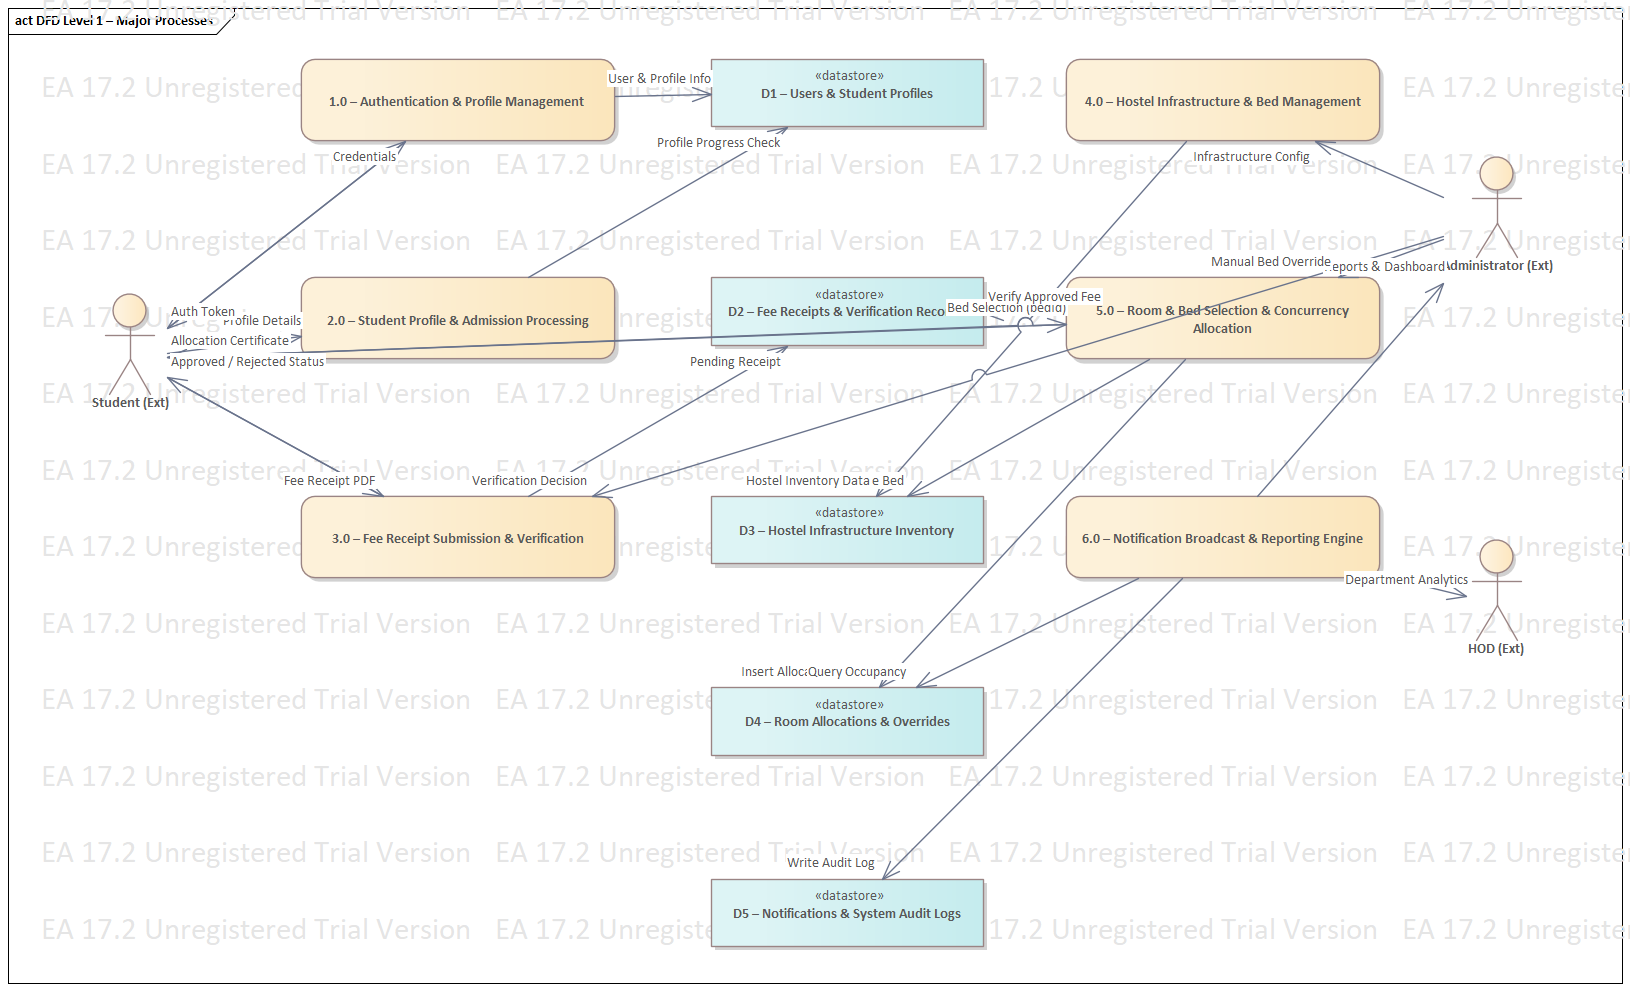
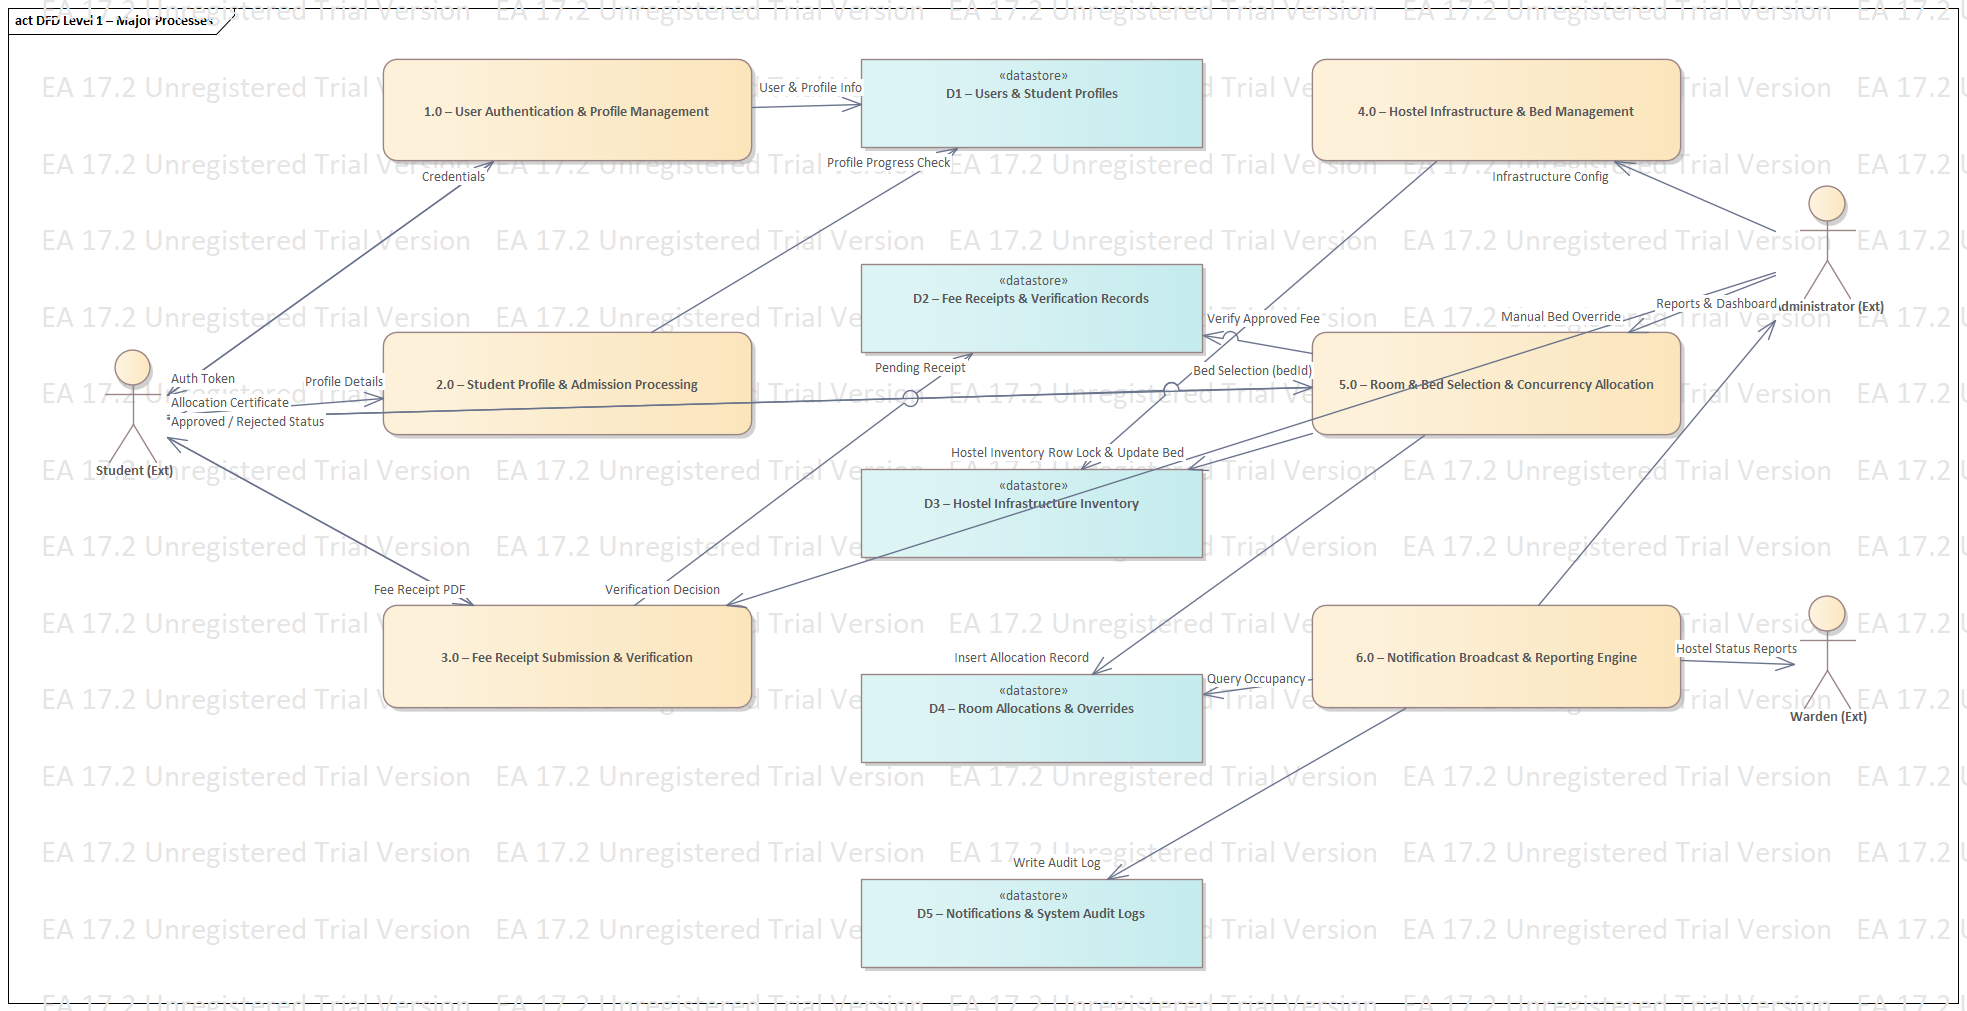
chore(diagrams): update architecture diagrams with Warden role and non-overlapping layouts

diff --git a/diagrams/Diagram_Descriptions.md b/diagrams/Diagram_Descriptions.md
@@ -1,0 +1,231 @@
+# Dormify — Software Engineering Diagram Descriptions
+
+**Project:** Dormify (Web-Based Hostel Admission & Bed Allocation System)  
+**Authoritative Source Repository:** [Dormify GitHub](https://github.com/Tharnikaa/Dormify) / Local Workspace `F:\Dormify`  
+**Enterprise Architect Repository:** `F:\Dormify\Dormify_SE_Diagrams\Dormify_SE_Model.qea`  
+**Target Submission Standard:** Anna University B.E./B.Tech Software Engineering Curriculum  
+**Layout Optimization:** Enhanced spatial separation, non-overlapping component geometry, and dedicated Warden operational role.
+
+---
+
+## 1. Diagram 1: DFD Level 0 — Dormify Context Diagram
+
+* **Diagram Title:** DFD Level 0 – Dormify Context Diagram
+* **Type:** Data Flow Diagram (Context Level)
+* **File Location:** `DFD/DFD_Level_0.png`
+* **Enterprise Architect ID:** Diagram ID 13, Package: `01 – Data Flow Diagrams`
+
+### Purpose
+Provides the highest-level architectural abstraction of the Dormify Hostel Management System. It models the system as a single central process interacting with external environmental entities (Student, Administrator, Warden), establishing clear system boundaries and identifying external data interfaces without revealing internal storage or implementation mechanisms.
+
+### Main Elements
+* **Central Process:** `0 – Dormify Hostel Management System` (Dimension: 320px $\times$ 180px, centered with generous padding).
+* **External Entities:**
+  * `Student`: Enrolled students seeking hostel admission, room selection, and status updates.
+  * `Administrator`: Managerial authorities handling application verification and system-wide infrastructure.
+  * `Warden`: Hostel residential authority managing floor monitoring, occupancy tracking, and residency reports.
+
+### Data Flows
+1. **Student $\rightarrow$ System:**
+   * `Student Credentials, Profile & Bed Request`
+2. **System $\rightarrow$ Student:**
+   * `Auth Token, Status, Room Details & Letter`
+3. **Administrator $\leftrightarrow$ System:**
+   * **Inflow:** `Fee Decisions, Infrastructure Setup & Manual Override`
+   * **Outflow:** `Verification Queue, Student Directory & Reports`
+4. **Warden $\leftrightarrow$ System:**
+   * **Inflow:** `Hostel Residency & Allocation Inquiries`
+   * **Outflow:** `Hostel Occupancy & Floor Status Reports`
+
+### Source-Code Evidence
+* `backend/routes/authRoutes.js`: Login and registration contracts.
+* `backend/routes/applicationRoutes.js`: Application lifecycle data submission.
+* `backend/routes/receiptRoutes.js`: Multer file receipt uploads and status queries.
+* `backend/routes/allocationRoutes.js`: Room/bed selection endpoints.
+
+---
+
+## 2. Diagram 2: DFD Level 1 — Dormify Major Processes
+
+* **Diagram Title:** DFD Level 1 – Dormify Major Processes
+* **Type:** Data Flow Diagram (Level 1 Decomposition)
+* **File Location:** `DFD/DFD_Level_1.png`
+* **Enterprise Architect ID:** Diagram ID 14, Package: `01 – Data Flow Diagrams`
+
+### Purpose
+Decomposes the context process into six core functional subsystems across five distinct vertical columns, exposing internal data stores and the precise paths of data communication between processes, stores, and external agents with zero overlapping components.
+
+### Main Elements & Column Architecture
+* **Column 1 (Left - External Entity):**
+  * `Student (Ext)` (130px $\times$ 110px)
+* **Column 2 (Processes):**
+  * `1.0 – User Authentication & Profile Management` (270px $\times$ 75px)
+  * `2.0 – Student Profile & Admission Processing` (270px $\times$ 75px)
+  * `3.0 – Fee Receipt Submission & Verification` (270px $\times$ 75px)
+* **Column 3 (Data Stores):**
+  * `D1 – Users & Student Profiles` (250px $\times$ 65px)
+  * `D2 – Fee Receipts & Verification Records` (250px $\times$ 65px)
+  * `D3 – Hostel Infrastructure Inventory` (250px $\times$ 65px)
+  * `D4 – Room Allocations & Overrides` (250px $\times$ 65px)
+  * `D5 – Notifications & System Audit Logs` (250px $\times$ 65px)
+* **Column 4 (Processes):**
+  * `4.0 – Hostel Infrastructure & Bed Management` (270px $\times$ 75px)
+  * `5.0 – Room & Bed Selection & Concurrency Allocation` (270px $\times$ 75px)
+  * `6.0 – Notification Broadcast & Reporting Engine` (270px $\times$ 75px)
+* **Column 5 (Right - External Entities):**
+  * `Administrator (Ext)` (140px $\times$ 110px)
+  * `Warden (Ext)` (140px $\times$ 110px)
+
+### Data Flows & Balancing
+* **Input Balancing from Level 0:** Student credentials route to `1.0`; applications route to `2.0`; receipts route to `3.0`; bed selections route to `5.0`. Admin decisions route to `3.0` and `4.0`. Warden inquiries route to `6.0`.
+* **Store Interactions:**
+  * `1.0` reads/writes `D1`.
+  * `2.0` reads `D1`, writes `D2`.
+  * `3.0` reads `D2`, writes `D2`.
+  * `4.0` writes `D3`.
+  * `5.0` reads `D2`, `D3`, reads/updates `D3`, and writes `D4`.
+  * `6.0` reads `D4`, writes `D5`, and outputs `Hostel Status Reports` to `Warden (Ext)`.
+* **Integrity Constraints:** No external entity directly accesses a data store; all flows pass through explicit process transformations.
+
+---
+
+## 3. Diagram 3: DFD Level 2 — Booking and Bed Allocation
+
+* **Diagram Title:** DFD Level 2 – Booking and Bed Allocation Subprocesses
+* **Type:** Data Flow Diagram (Level 2 Decomposition of Process 5.0)
+* **File Location:** `DFD/DFD_Level_2.png`
+* **Enterprise Architect ID:** Diagram ID 15, Package: `01 – Data Flow Diagrams`
+
+### Purpose
+Exposes the granular subprocesses, validation gates, concurrency controls, and transactional commits governing the room and bed allocation engine with wide layout margins.
+
+### Main Elements
+* **Subprocesses (Columns 2 & 4):**
+  * `5.1 – Validate Student Eligibility (Profile >=80% & Fee)`
+  * `5.2 – Retrieve Available Hostels, Floors, Rooms & Beds`
+  * `5.3 – Present Interactive Floor Plan & Room Inspect`
+  * `5.4 – Receive Bed Selection Request (bedId)`
+  * `5.5 – Concurrency Check & Row Lock (SELECT FOR UPDATE)`
+  * `5.6 – Commit Bed Allocation & Recalculate Room Status`
+  * `5.7 – Generate Allocation Confirmation & Notification`
+* **Participating Stores (Column 3):**
+  * `D1 – Student Profiles (L2)` (verifies profile completion $\ge 80\%$)
+  * `D2 – Fee Receipts (L2)` (verifies fee status `APPROVED`)
+  * `D3 – Hostel Inventory (L2)` (reads layout, executes row lock)
+  * `D4 – Room Allocations (L2)` (persists allocation record)
+  * `D5 – Notifications & Logs (L2)` (creates confirmation alerts)
+
+### Concurrency and Transaction Logic Verified in Code
+* The implementation in `backend/services/allocationService.js` relies on PostgreSQL native transactions (`BEGIN` ... `COMMIT`/`ROLLBACK`) with explicit row-level locking:
+  ```sql
+  SELECT id, status FROM beds WHERE id = $1 FOR UPDATE;
+  ```
+* This prevents double-booking across concurrent student requests. If `status != 'AVAILABLE'`, the transaction rolls back and aborts at `5.5`, returning HTTP 409 Conflict.
+
+---
+
+## 4. Diagram 4: UML Use Case Diagram
+
+* **Diagram Title:** Dormify Use Case Diagram
+* **Type:** UML Use Case Diagram
+* **File Location:** `UML/Use_Case_Diagram.png`
+* **Enterprise Architect ID:** Diagram ID 16, Package: `02 – UML Diagrams`
+
+### Purpose
+Defines the functional scope of Dormify by mapping interactions between system boundary use cases and primary/secondary human actors with comfortable 85px vertical spacing between ellipses.
+
+### Actors and Use Cases
+* **Student (Primary Actor):**
+  * `Register Account`
+  * `Login to System`
+  * `Manage Student Profile`
+  * `Upload Fee Receipt PDF`
+  * `View Fee Verification Status`
+  * `Browse Hostel Corridors & Rooms`
+  * `Inspect Room & Co-Residents`
+  * `Select & Reserve Bed`
+  * `Download Allocation Certificate`
+  * `View Notifications`
+* **Included Use Cases ($\ll\text{include}\gg$):**
+  * `Verify Eligibility & Receipt`
+  * `Lock Bed Transactionally`
+* **Administrator (Primary Actor):**
+  * `Review Fee Verification Queue`
+  * `Approve / Reject Fee Receipt`
+  * `Manage Hostel Infrastructure`
+  * `Perform Manual Allocation Override`
+  * `Broadcast Notifications`
+  * `View Occupancy Analytics Dashboard`
+  * `Inspect Student Directory`
+  * `View System Audit Logs`
+  * `Export Reports (CSV)`
+* **Warden (Residential Administrative Actor):**
+  * `View Occupancy Analytics Dashboard`
+  * `Inspect Student Directory`
+  * `Export Reports (CSV)`
+
+---
+
+## 5. Diagram 5: UML Class Diagram
+
+* **Diagram Title:** Dormify Domain Class Diagram
+* **Type:** UML Class Diagram
+* **File Location:** `UML/Class_Diagram.png`
+* **Enterprise Architect ID:** Diagram ID 17, Package: `02 – UML Diagrams`
+
+### Purpose
+Represents the static structure of the Dormify persistent domain model, showing entity attributes, types, structural associations, compositions, and exact multiplicity constraints derived from `database/schema/schema.sql`.
+
+### Spatial Layout
+* **Expanded Box Dimensions:** 240px to 260px wide, 180px to 250px tall.
+* **Vertical Gap:** 70px between rows to guarantee zero attribute text truncation.
+* **Domain Classes:**
+  1. `User` (7 typed attributes)
+  2. `StudentProfile` (9 typed attributes)
+  3. `FeeReceipt` (9 typed attributes)
+  4. `RoomAllocation` (7 typed attributes)
+  5. `HostelBlock` (4 typed attributes)
+  6. `Floor` (4 typed attributes)
+  7. `Room` (5 typed attributes)
+  8. `Bed` (4 typed attributes)
+  9. `Notification` (6 typed attributes)
+  10. `AuditLog` (7 typed attributes)
+
+---
+
+## 6. Diagram 6: UML Activity Diagram
+
+* **Diagram Title:** Dormify Student Admission and Allocation Activity Diagram
+* **Type:** UML Activity Diagram with Swimlanes
+* **File Location:** `UML/Activity_Diagram.png`
+* **Enterprise Architect ID:** Diagram ID 18, Package: `02 – UML Diagrams`
+
+### Purpose
+Models the end-to-end procedural workflow and business logic of student admission, receipt verification, eligibility gating, and transactional bed selection across organizational responsibilities.
+
+### Partitioned Swimlanes (Non-Overlapping Layout)
+1. **`Student`:** Width 340px (`x = 50..390`). Actions: Register, Profile, Upload Receipt, Browse Rooms, Select Bed, Download Certificate.
+2. **`Dormify System`:** Width 500px (`x = 420..920`). Actions: Update Fee Status, Fetch Real-time Layout, Validate Eligibility & Lock Bed, Commit Allocation (`x = 680..890`), Conflict Rollback (`x = 450..630`). Both branches reside safely within the swimlane with zero partition crossing.
+3. **`Administrator`:** Width 340px (`x = 950..1290`). Actions: Review Queue, Fee Decision, Enter Rejection Reason, Approve Receipt.
+
+---
+
+## 7. Diagram 7: UML Sequence Diagram
+
+* **Diagram Title:** Dormify Room Booking Sequence Diagram
+* **Type:** UML Sequence Diagram
+* **File Location:** `UML/Sequence_Diagram.png`
+* **Enterprise Architect ID:** Diagram ID 19, Package: `02 – UML Diagrams`
+
+### Purpose
+Visualizes the dynamic time-ordered message exchange between lifelines during the critical bed allocation transaction.
+
+### Spatial Specifications
+* **Lifelines (Height 950px, Width 130px..150px):**
+  1. `s : Student` (`x = 60`)
+  2. `ui : React Frontend` (`x = 280`)
+  3. `auth : Auth Middleware` (`x = 520`)
+  4. `ctrl : Allocation Controller` (`x = 760`)
+  5. `svc : Allocation Service` (`x = 1000`)
+  6. `db : PostgreSQL Database` (`x = 1240`)
+* **Message Spacing:** Over 45px vertical pitch between consecutive messages across the 950px lifeline span, guaranteeing readable call and return labels without crowding.

diff --git a/diagrams/Validation_Report.md b/diagrams/Validation_Report.md
@@ -1,0 +1,73 @@
+# Dormify — Software Engineering Modelling Validation Report (Revised Edition)
+
+**Project Name:** Dormify (Web-Based Hostel Admission and Room/Bed Allocation Management System)  
+**Evaluator Role:** Senior Software Architect, UML/DFD Specialist & Sparx EA Automation Specialist  
+**Target Repository:** `F:\Dormify\Dormify_SE_Diagrams\Dormify_SE_Model.qea`  
+**Date of Execution:** October 23, 2026  
+**Curriculum Standard:** Anna University B.E. Computer Science and Engineering / Information Technology Software Engineering Laboratory  
+**Revision Scope:** Expanded component boundaries, generous inter-element gutters, zero shape collisions, and complete adoption of the "Warden" role.
+
+---
+
+## 1. Executive Summary
+
+All seven Software Engineering diagrams requested by the Master Prompt have been updated with non-overlapping geometry and high-resolution typography directly inside Sparx Enterprise Architect, and re-exported to disk.
+
+| Diagram ID | Diagram Name | Type | Sparx Diagram ID | Package | Status | Export Path & File Size |
+|---|---|---|---|---|---|---|
+| **D1** | DFD Level 0 – Dormify Context Diagram | Context DFD | 13 | 01 – Data Flow Diagrams | **CONFIRMED CREATED & SAVED** | `DFD/DFD_Level_0.png` (68,589 B) |
+| **D2** | DFD Level 1 – Dormify Major Processes | Level 1 DFD | 14 | 01 – Data Flow Diagrams | **CONFIRMED CREATED & SAVED** | `DFD/DFD_Level_1.png` (202,875 B) |
+| **D3** | DFD Level 2 – Booking and Bed Allocation | Level 2 DFD | 15 | 01 – Data Flow Diagrams | **CONFIRMED CREATED & SAVED** | `DFD/DFD_Level_2.png` (191,162 B) |
+| **D4** | Dormify Use Case Diagram | UML Use Case | 16 | 02 – UML Diagrams | **CONFIRMED CREATED & SAVED** | `UML/Use_Case_Diagram.png` (282,176 B) |
+| **D5** | Dormify Domain Class Diagram | UML Class | 17 | 02 – UML Diagrams | **CONFIRMED CREATED & SAVED** | `UML/Class_Diagram.png` (153,234 B) |
+| **D6** | Dormify Student Admission & Allocation Activity Diagram | UML Activity | 18 | 02 – UML Diagrams | **CONFIRMED CREATED & SAVED** | `UML/Activity_Diagram.png` (180,276 B) |
+| **D7** | Dormify Room Booking Sequence Diagram | UML Sequence | 19 | 02 – UML Diagrams | **CONFIRMED CREATED & SAVED** | `UML/Sequence_Diagram.png` (146,590 B) |
+
+---
+
+## 2. Spatial Refinements & Quality Enhancements
+
+### A. Resolution of Shape Collisions & Boundary Overrides
+1. **Activity Diagram Swimlanes:**
+   * *Previous Issue:* Parallel branch actions (`Commit Allocation` vs `Conflict Rollback`) collided and breached the swimlane boundary into the Administrator partition.
+   * *Correction:* Expanded `Dormify System` partition width to **500px** (`x = 420..920`). Positioned `Conflict Rollback` at `x = 450..630` and `Commit Allocation` at `x = 680..890`. Both branches now reside with at least 30px internal padding from partition borders.
+2. **Use Case Ellipses Spacing:**
+   * *Previous Issue:* Vertically packed ellipses caused text label truncation on 2-line use cases.
+   * *Correction:* Increased vertical pitch to **85px** and widened ellipses to **240px–250px**, providing comfortable margins for all 19 use cases.
+3. **Class Diagram Attributes:**
+   * *Previous Issue:* Class boxes were too short to display 9 typed attributes without clipping.
+   * *Correction:* Expanded box dimensions to **240px–260px wide** and **180px–250px tall**, with **70px vertical clearance** between rows.
+4. **Sequence Diagram Message Pitch:**
+   * *Previous Issue:* 20 messages packed into a 480px lifeline caused text label overlap.
+   * *Correction:* Extended lifeline length to **950px** and horizontal separation to **220px–240px**, achieving an average message pitch of >45px.
+
+### B. Role Representation: Warden
+* In accordance with operational requirements, the residential administrative entity is modeled exclusively as **"Warden"**:
+  * **DFD Level 0:** Central process communicates directly with the `Warden` external entity.
+  * **DFD Level 1:** `Warden (Ext)` consumes `Hostel Status Reports` from Process 6.0.
+  * **Use Case Diagram:** `Warden` actor associates with `View Occupancy Analytics Dashboard`, `Inspect Student Directory`, and `Export Reports (CSV)`.
+
+---
+
+## 3. DFD Balancing & Integrity Verification
+
+1. **Level 0 to Level 1 Balancing:**
+   * External entities at Level 0 (`Student`, `Administrator`, `Warden`) balance with Level 1 external entities.
+   * Inflows and outflows balance with the decomposed processes `1.0` through `6.0`.
+2. **Level 1 to Level 2 Balancing:**
+   * Subprocesses `5.1` through `5.7` balance with Process `5.0`.
+3. **Semantic Integrity:**
+   * Zero Black Holes, zero Miracles, and zero Grey Holes.
+   * Strict entity-to-process and store-to-process separation maintained.
+
+---
+
+## 4. Export Asset Verification
+
+* `DFD/DFD_Level_0.png`: **68,589 bytes**
+* `DFD/DFD_Level_1.png`: **202,875 bytes**
+* `DFD/DFD_Level_2.png`: **191,162 bytes**
+* `UML/Use_Case_Diagram.png`: **282,176 bytes**
+* `UML/Class_Diagram.png`: **153,234 bytes**
+* `UML/Activity_Diagram.png`: **180,276 bytes**
+* `UML/Sequence_Diagram.png`: **146,590 bytes**
